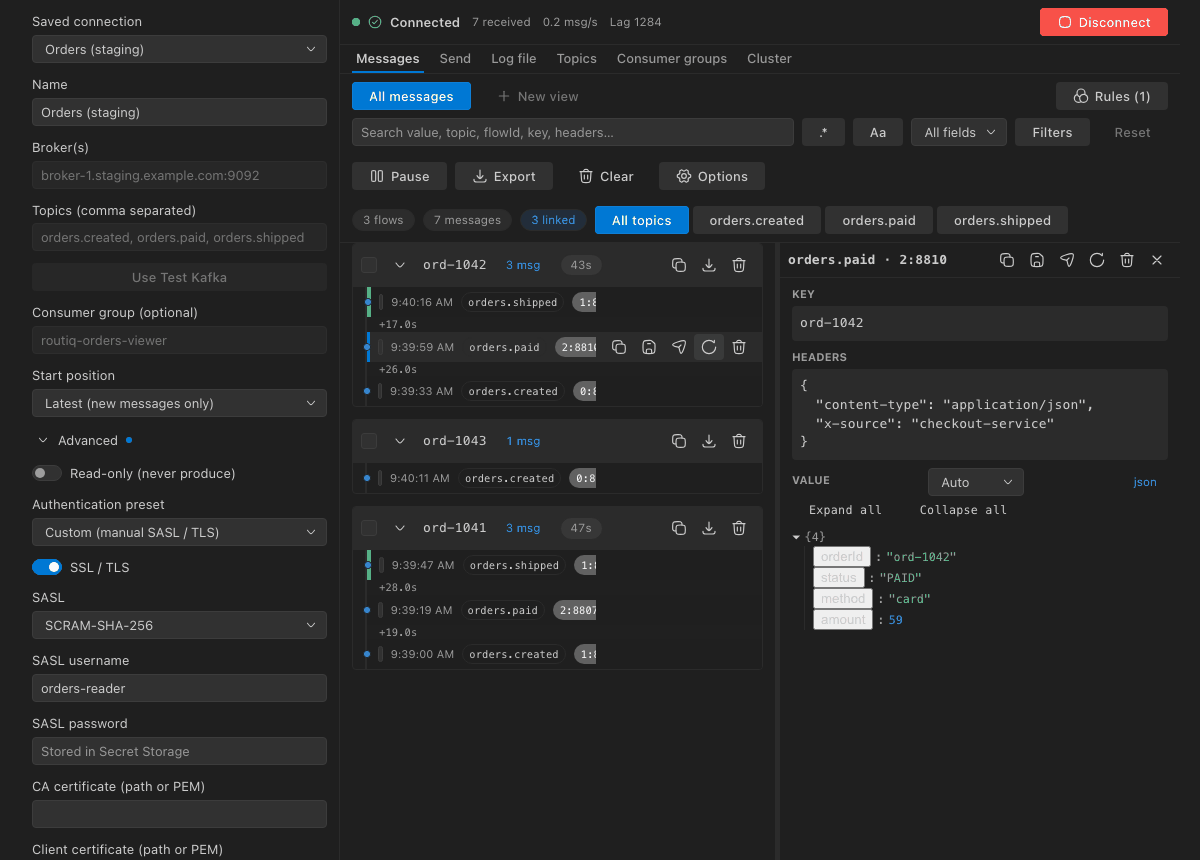
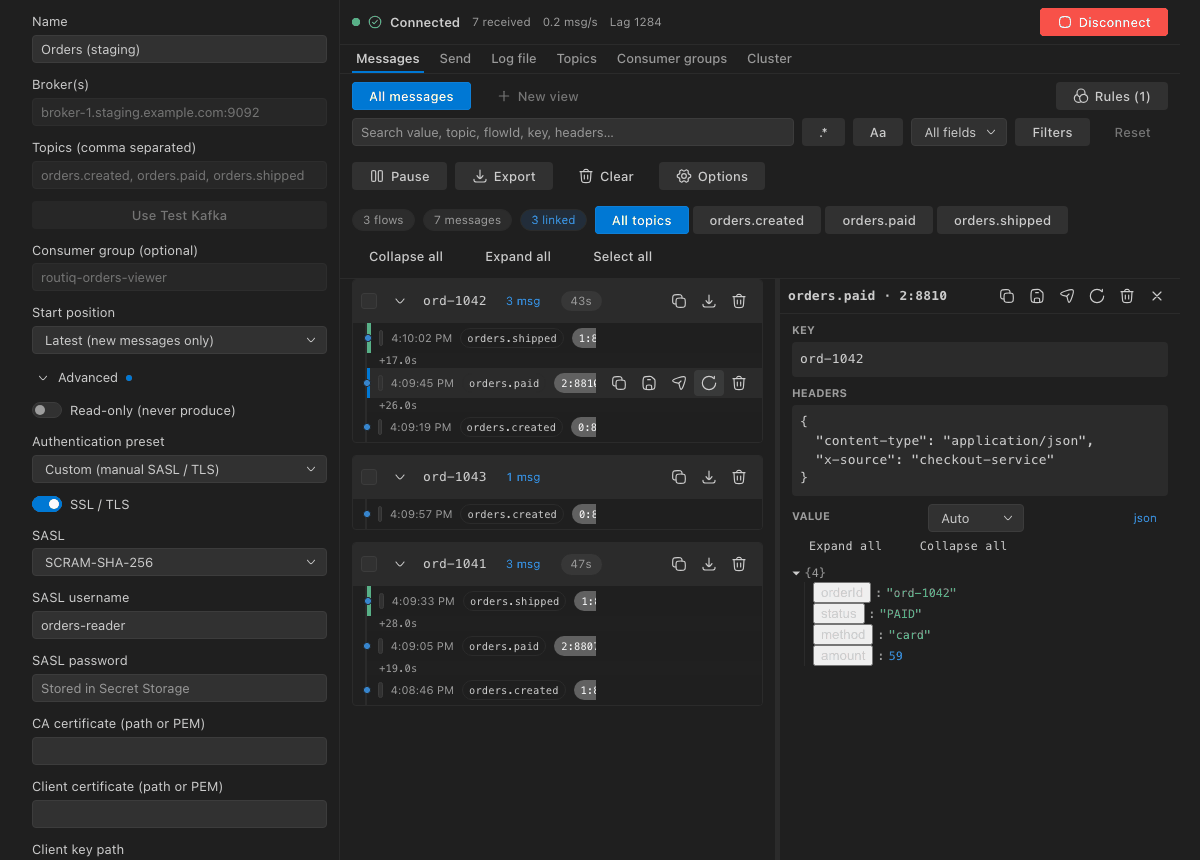
fix TP-0: stop kafka message list overlapping the stats row

diff --git a/src/webview/kafka/kafka.css b/src/webview/kafka/kafka.css
@@ -13,6 +13,7 @@
 .kafka-error-box { padding: var(--rq-space-2); border: 1px solid var(--destructive); border-radius: var(--radius); }
 .kafka-success { color: var(--success); margin: 0; }
 .kafka-messages { display: flex; flex-direction: column; height: 100%; min-height: 0; }
+.kafka-messages > :not(.kafka-body) { flex-shrink: 0; }
 .kafka-toolbar, .kafka-stats { display: flex; flex-wrap: wrap; align-items: center; gap: var(--kafka-gap-2); padding: var(--kafka-gap-2) var(--kafka-pad-x); }
 .kafka-stats { padding-block: var(--kafka-gap-2); min-height: 22px; }
 .kafka-stats .ui-badge { min-height: 22px; box-sizing: border-box; display: inline-flex; align-items: center; }

diff --git a/CHANGELOG.md b/CHANGELOG.md
@@ -1,5 +1,9 @@
 # Changelog
 
+## 0.6.7
+
+- Kafka Messages tab: the message list no longer overlaps the stats and controls row when it wraps.
+
 ## 0.6.6
 
 - Kafka Messages tab: Collapse all / Expand all, Select all and Clear selection.
